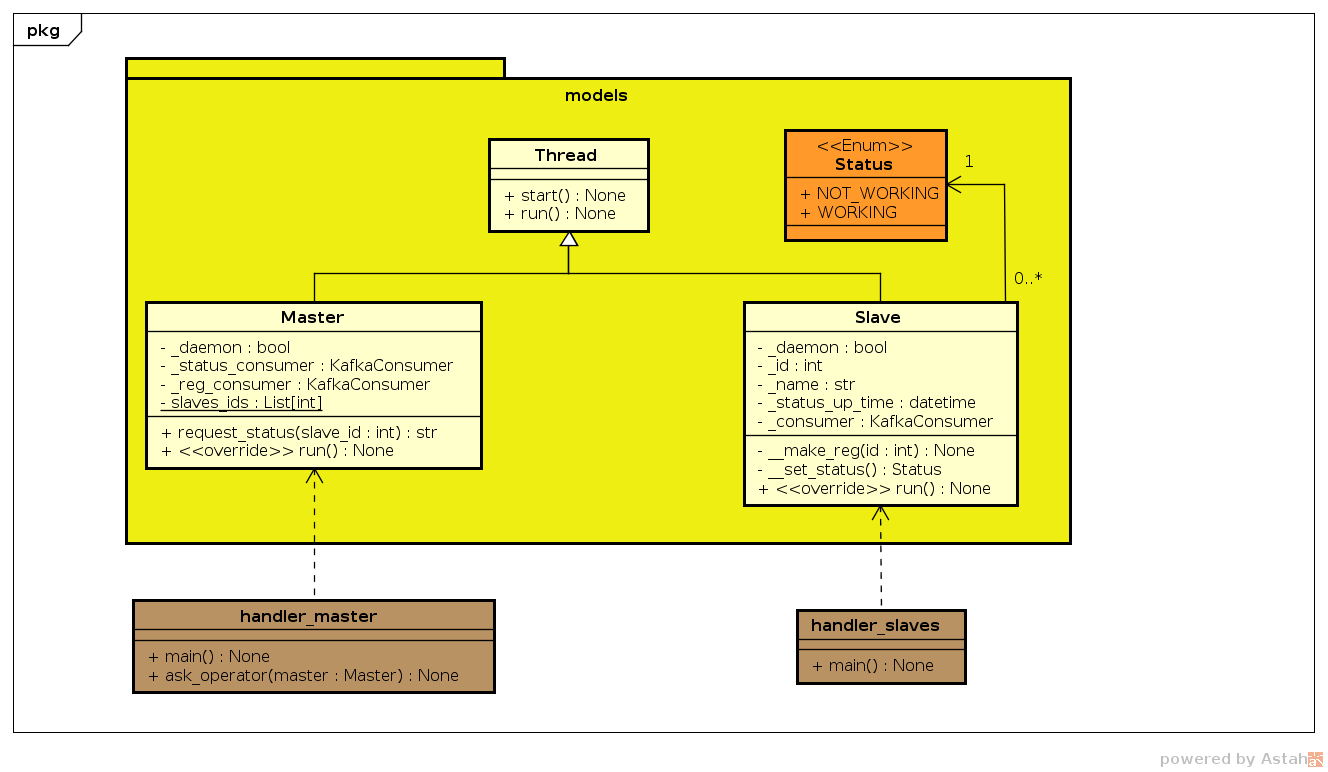
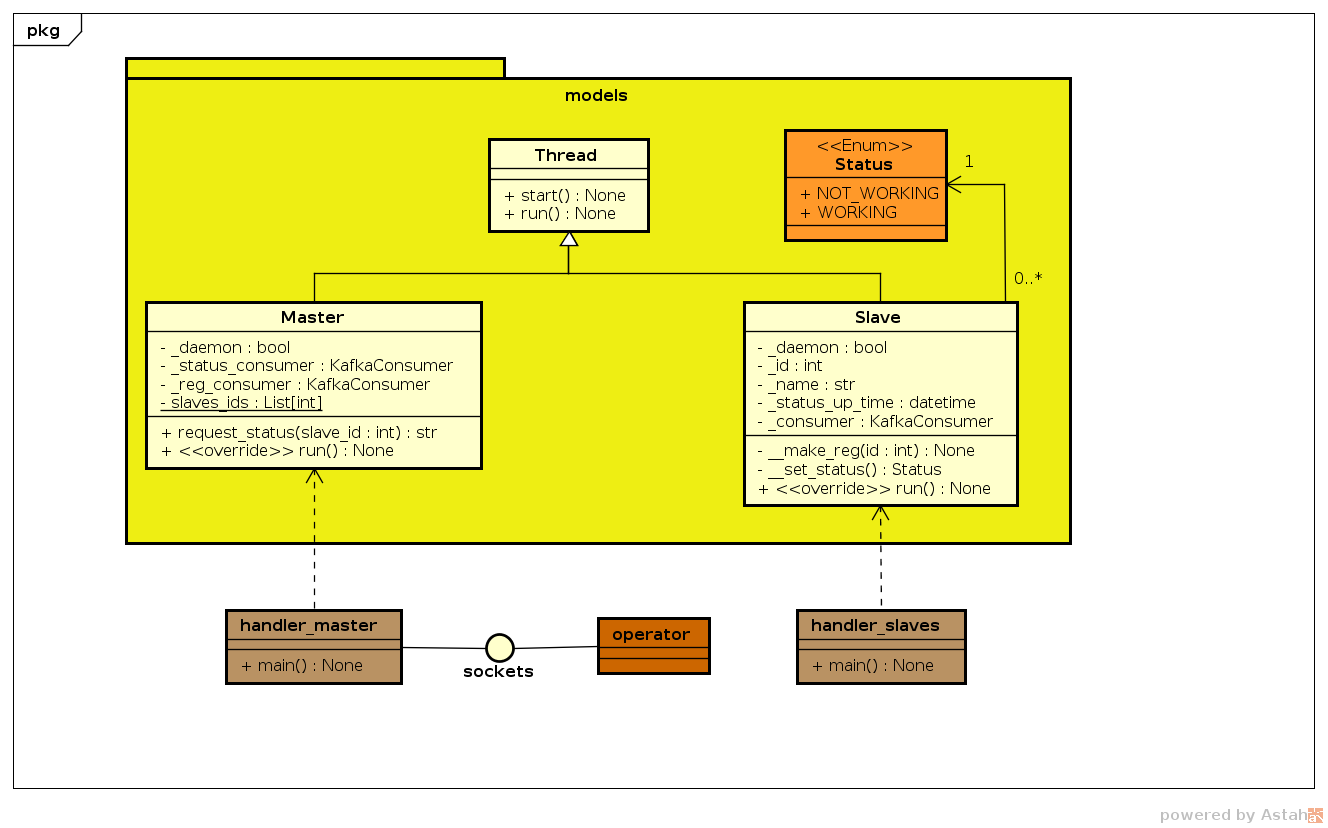
docs: Alteração do diagrama de classes

Changed region(s): [[0.0926, 0.0622, 0.8336, 0.9016], [0.0309, 0.9326, 1.0, 0.9948], [0.0, 0.0311, 0.0617, 0.0622]]

diff --git a/README.md b/README.md
@@ -43,7 +43,7 @@ Trab-FinalSD
     |_ src
         |_ handler_master.py
         |_ handler_slaves.py
-        |_ operador.py
+        |_ operator.py
         |_ simple_main.py
         |_ models
             |_ master.py
